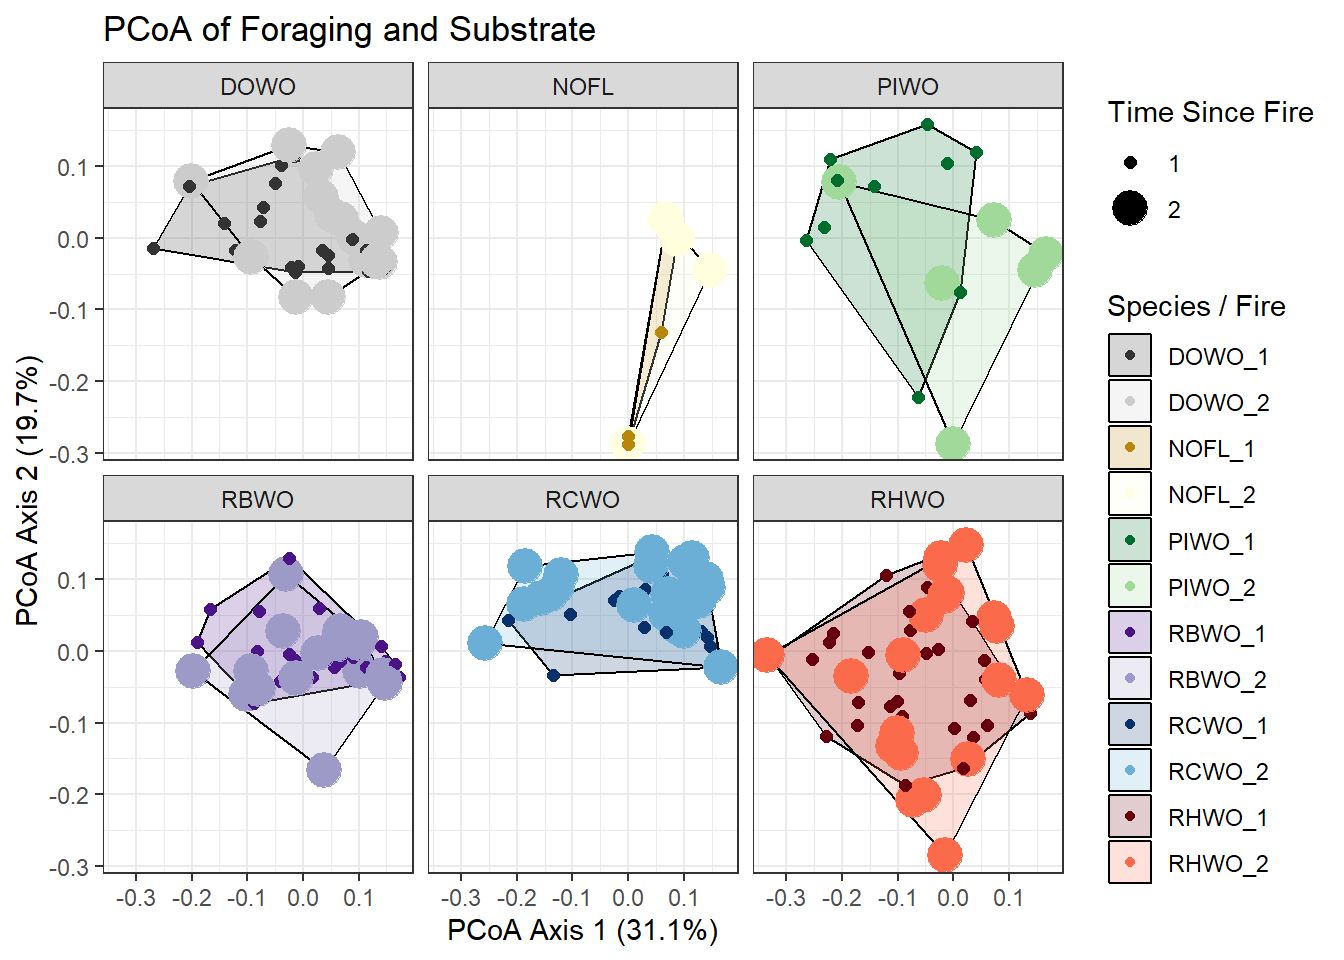
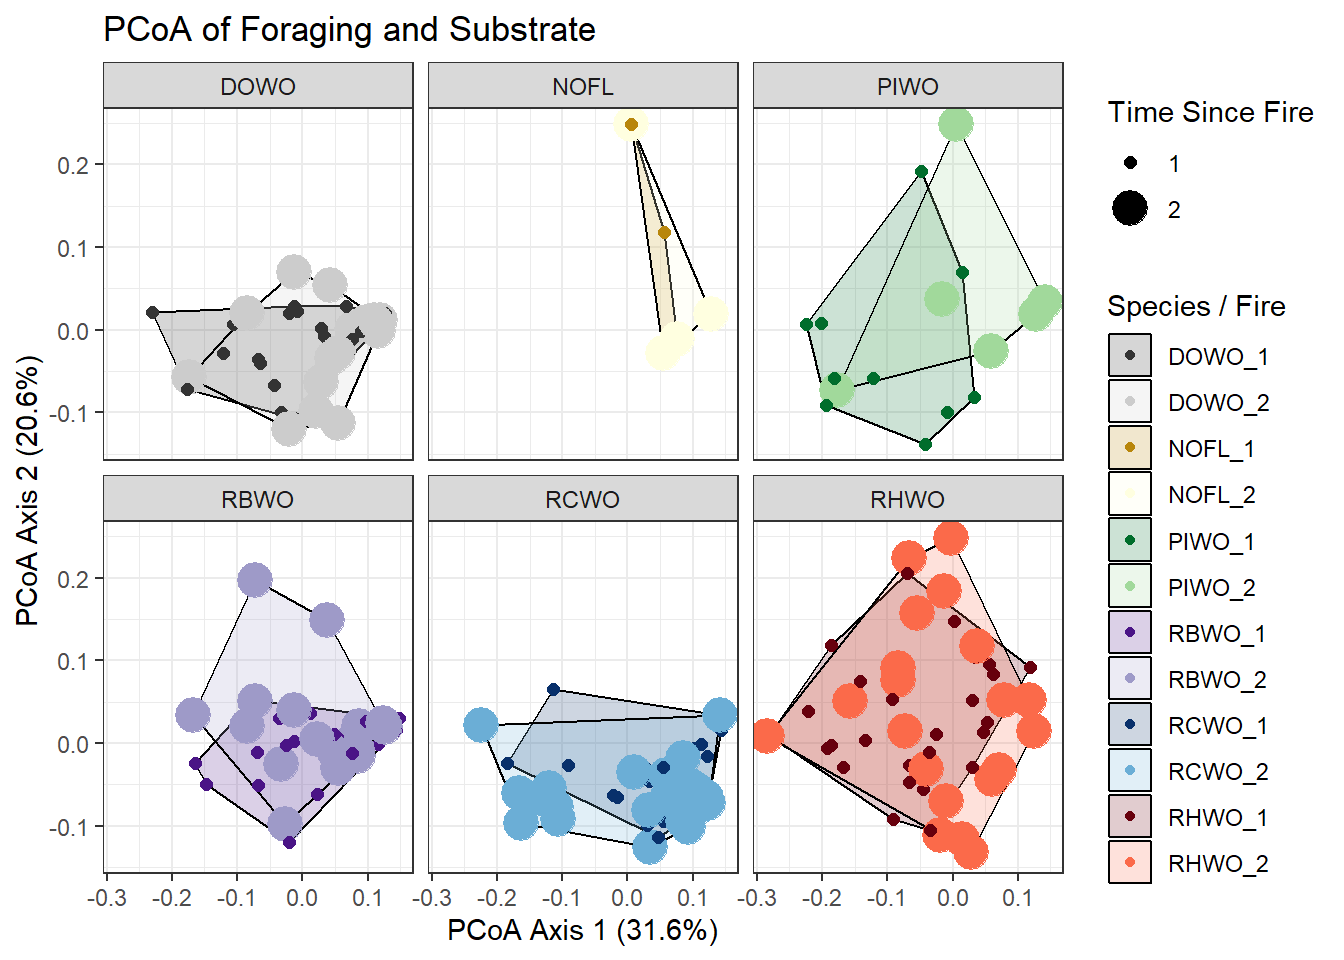
updating tree type into multivariate analysis

diff --git a/docs/woodpecker_obs.html b/docs/woodpecker_obs.html
@@ -206,7 +206,7 @@ Table: March observations by species and plot
 |PIWO       |  0|  0|  0|  0|  0|  0|  0|  0|  0|  1|  0|  0|  0|  0|  0|  0|  0|  0|  0|  0|  0|  0|  0|  0|  0|  0|  0|  0|  0|  0|  0|  0|
 |RBWO       |  1|  0|  3|  0|  1|  2|  0|  1|  2|  2|  2|  1|  1|  1|  1|  3|  1|  1|  1|  1|  1|  2|  0|  0|  0|  0|  0|  0|  0|  0|  0|  0|
 |RCWO       |  3|  4|  2|  3|  0|  0|  0|  2|  1|  3|  0|  2|  1|  3|  1|  3|  0|  0|  0|  0|  1|  0|  1|  1|  1|  1|  1|  0|  0|  0|  0|  0|
-|RHWO       |  0|  0|  0|  2|  0|  0|  0|  0|  2|  1|  1|  1|  0|  0|  1|  2|  0|  0|  0|  1|  1|  1|  1|  3|  1|  2|  2|  1|  1|  1|  0|  0|</code></pre>
+|RHWO       |  0|  0|  0|  2|  0|  0|  0|  0|  2|  1|  1|  1|  0|  0|  1|  2|  0|  0|  0|  1|  1|  1|  1|  2|  1|  1|  2|  1|  1|  1|  0|  0|</code></pre>
 </div>
 </div>
 </section>
@@ -274,13 +274,13 @@ Table: June observations by species and plot
 
 |X8_Species |  3|  8|  9| 14| 17| 18| 19| 22| 24|  5|  1|  2|  4|  6|  7| 12| 13| 15| 20| 23| 30| 32| 10| 11| 16| 25| 31| 26| 28| 29| 21| 27|
 |:----------|--:|--:|--:|--:|--:|--:|--:|--:|--:|--:|--:|--:|--:|--:|--:|--:|--:|--:|--:|--:|--:|--:|--:|--:|--:|--:|--:|--:|--:|--:|--:|--:|
-|DOWO       |  0|  0|  1|  1|  0|  2|  0|  0|  0|  0|  1|  0|  0|  0|  0|  0|  0|  0|  1|  0|  0|  0|  0|  1|  2|  0|  0|  0|  1|  2|  1|  2|
+|DOWO       |  0|  0|  1|  1|  0|  2|  0|  0|  1|  0|  1|  0|  0|  0|  0|  0|  0|  1|  1|  0|  0|  0|  0|  1|  2|  0|  0|  0|  2|  2|  1|  2|
 |HAWO       |  0|  0|  1|  0|  0|  0|  0|  0|  1|  0|  0|  0|  0|  0|  0|  0|  0|  0|  0|  0|  0|  0|  0|  0|  0|  0|  0|  0|  0|  0|  0|  0|
 |NOFL       |  0|  0|  0|  0|  0|  0|  0|  0|  0|  1|  0|  0|  0|  0|  0|  1|  0|  0|  0|  0|  0|  0|  0|  0|  0|  0|  0|  0|  0|  0|  0|  0|
-|PIWO       |  0|  0|  0|  0|  0|  0|  0|  0|  0|  1|  0|  0|  0|  0|  0|  0|  1|  0|  0|  1|  0|  0|  0|  1|  0|  0|  0|  0|  1|  0|  0|  0|
-|RBWO       |  2|  0|  0|  0|  0|  2|  2|  0|  1|  0|  0|  0|  0|  0|  1|  2|  1|  0|  2|  3|  0|  2|  0|  0|  1|  0|  2|  0|  1|  3|  1|  0|
-|RCWO       |  3|  1|  2|  0|  1|  0|  0|  0|  0|  2|  2|  0|  2|  3|  1|  1|  2|  1|  0|  0|  1|  2|  2|  2|  2|  0|  0|  1|  2|  0|  0|  1|
-|RHWO       |  1|  0|  0|  2|  1|  4|  2|  2|  1|  3|  0|  0|  0|  2|  2|  0|  1|  2|  2|  1|  2|  3|  3|  2|  4|  2|  4|  1|  2|  0|  0|  3|</code></pre>
+|PIWO       |  0|  0|  0|  0|  1|  0|  0|  0|  0|  1|  0|  0|  0|  0|  0|  0|  1|  0|  0|  1|  0|  0|  0|  1|  0|  0|  0|  0|  1|  0|  0|  0|
+|RBWO       |  2|  0|  0|  0|  2|  2|  2|  0|  1|  0|  0|  0|  0|  0|  1|  3|  1|  0|  2|  3|  0|  2|  0|  0|  1|  0|  2|  0|  2|  3|  1|  1|
+|RCWO       |  3|  1|  2|  3|  1|  0|  0|  0|  0|  2|  2|  0|  2|  3|  1|  3|  3|  1|  0|  0|  1|  2|  2|  2|  2|  0|  0|  1|  4|  0|  0|  1|
+|RHWO       |  1|  0|  0|  4|  3|  4|  3|  2|  1|  3|  0|  0|  0|  2|  2|  0|  1|  2|  2|  1|  2|  3|  3|  2|  6|  2|  4|  1|  3|  0|  0|  3|</code></pre>
 </div>
 </div>
 </section>
@@ -352,7 +352,7 @@ Table: August observations by species and plot
 </div>
 </div>
 </div>
-<p>Now let’s combine both foraging mode and substrate and see how all species devide multivariate space.</p>
+<p>Now let’s combine both foraging mode and substrate and see how all species divide multivariate space.</p>
 <div class="cell">
 <div class="cell-output-display">
 <div class="quarto-figure quarto-figure-center">
@@ -363,7 +363,7 @@ Table: August observations by species and plot
 </div>
 </div>
 </div>
-<p>This page was updated: June 05, 2026</p>
+<p>This page was updated: June 10, 2026</p>
 
 
 </section>